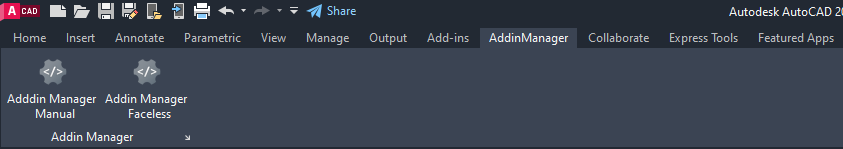
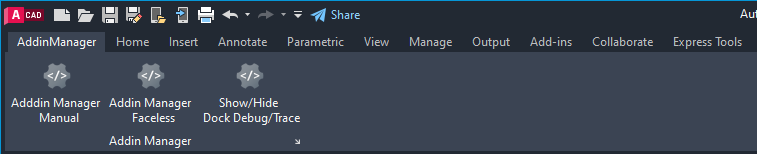
Update version

diff --git a/Installer/Installer.cs b/Installer/Installer.cs
@@ -17,7 +17,7 @@ string installationDir = Path.Combine(@"C:\ProgramData\\Autodesk\\ApplicationPlu
 const string projectName = "CadAddinManager";
 const string outputName = "CadAddinManager";
 const string outputDir = "output";
-const string version = "1.0.1";
+const string version = "1.0.2";
 var fileName = new StringBuilder().Append(outputName).Append("-").Append(version);
 var project = new Project
 {

diff --git a/Readme.MD b/Readme.MD
@@ -26,7 +26,9 @@ to support multiple platform API for developer. With current technology, you can
 
 
 Some feature include:
-
+- A newbie can create a new Add-in and explore **AutoCAD or Civil3D API** easy with Add-in manager.
+- Add-in tester(use Debug and Trace to test your add-in).
+- **Debug / Trace** : Support Show result use [Debug](https://docs.microsoft.com/en-us/dotnet/api/system.diagnostics.debug?view=net-6.0) or [Trace](https://docs.microsoft.com/en-us/dotnet/api/system.diagnostics.trace?view=net-6.0) to show result in Autocad or Civil3D.
 - Add-in manager
     - AddInManager Manual : Use for normal process load/unload addin
     - AddInManager Faceless : use for load last process before addin without UI
@@ -67,6 +69,32 @@ Execute a command easily  :
  6.Use faceless when you change code or rebuild.
 
 ---
+### Trace/Debug
+
+- [x] Show/Hide result inside **Dockpanel Navisworks**.
+- [x] Show Result history inside **Navis Addin Manager**.
+- [x] Clear Result.
+- [X] Show Result by color.
+
+A sample command to execute:
+```csharp
+using System.Diagnostics;
+using Autodesk.AutoCAD.Runtime;
+public class DebugTraceTest
+{
+    [CommandMethod("DebugTraceTest")]
+    public void Action()
+    {
+        //Trace or Debug Something
+        Trace.WriteLine($"Warning: This is a warning");
+        Trace.WriteLine($"Error: This is a error");
+        Trace.WriteLine($"Add: This is a add");
+        Trace.WriteLine($"Modify: This is a modify");
+        Trace.WriteLine($"Delete: This is a delete");
+    }
+}
+```
+![](pic/DockPanelOutput.png)
 
 ## Installation
 

diff --git a/CHANGELOG.md b/CHANGELOG.md
@@ -1,4 +1,12 @@
 # Changelog
+- 2022-05-13 **1.0.2**
+  - Add tab support show result trace/debug
+  - Add DockPanel Support Show/Hide Debug/Trace result.
+  - Support use Trace.Write() output in CadAddinManager and DockPanel **Debug/Trace Output**
+  - Support use Trace.WriteLine() output in CadAddinManager and DockPanel **Debug/Trace Output**
+  - Support use Debug.WriteLine() output in CadAddinManager and DockPanel **Debug/Trace Output**
+  - Support use Debug.WriteLine() output in CadAddinManager and DockPanel **Debug/Trace Output**
+  - Support show difference color type : Add,Modify,Warning,Error,Delete.
 - 2022-04-28 **1.0.1**
   - Fix small bug when execute command string reflect.
   - Add some test cases.
